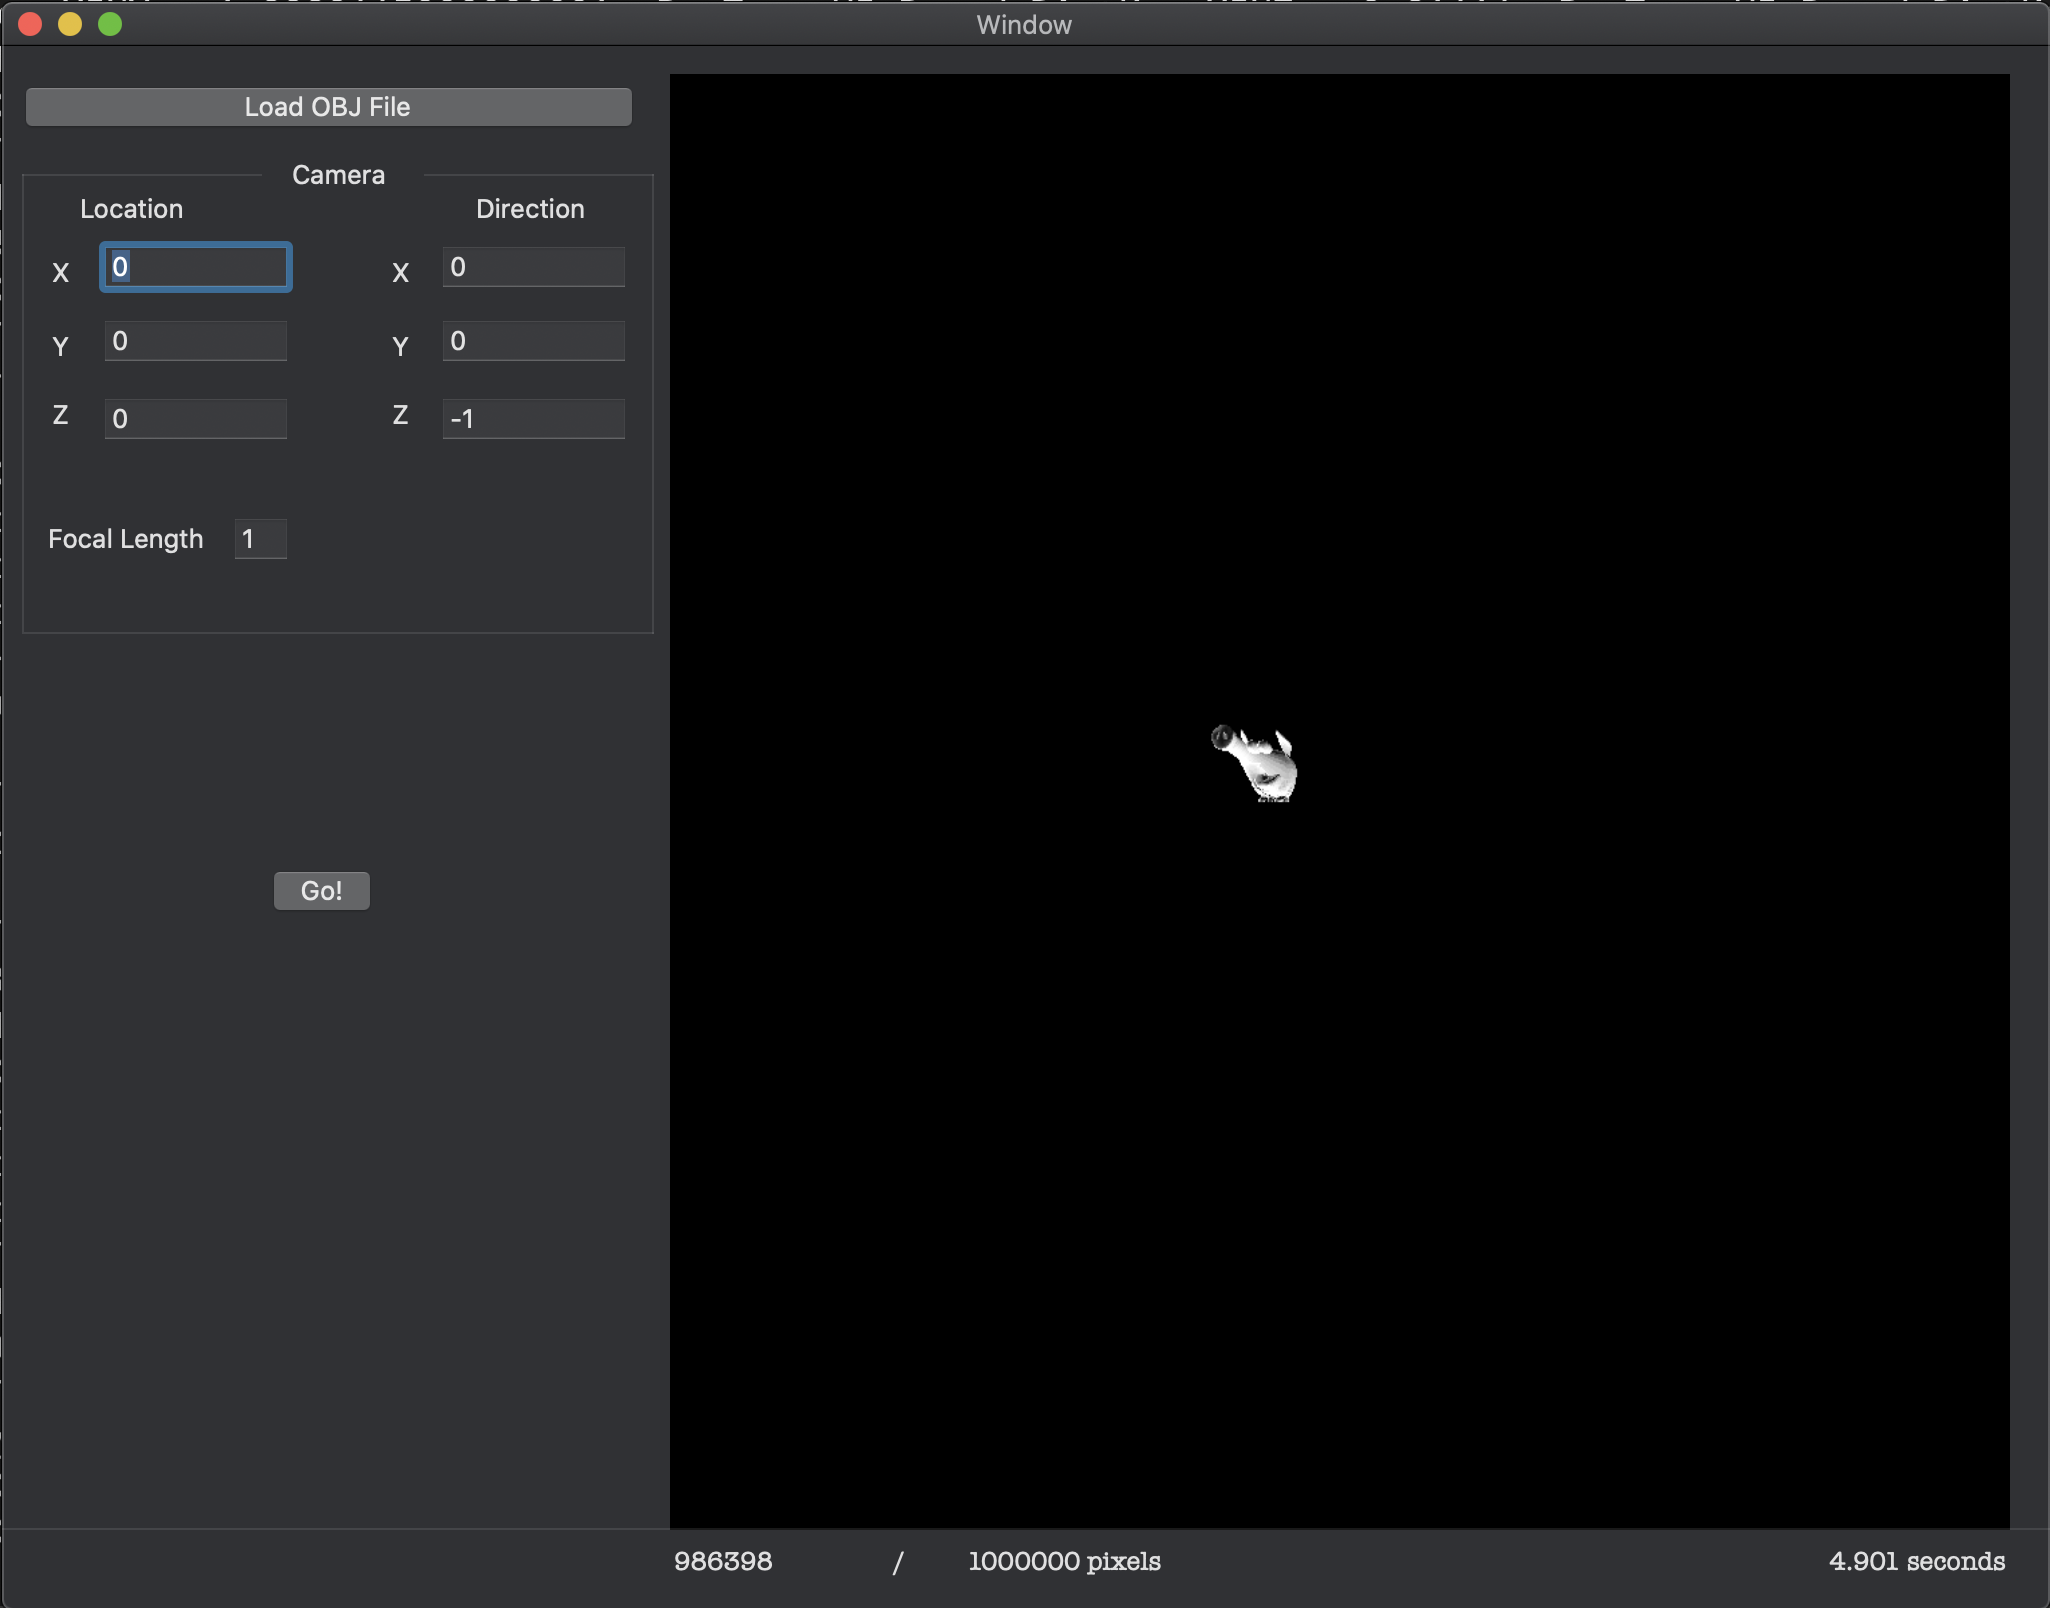
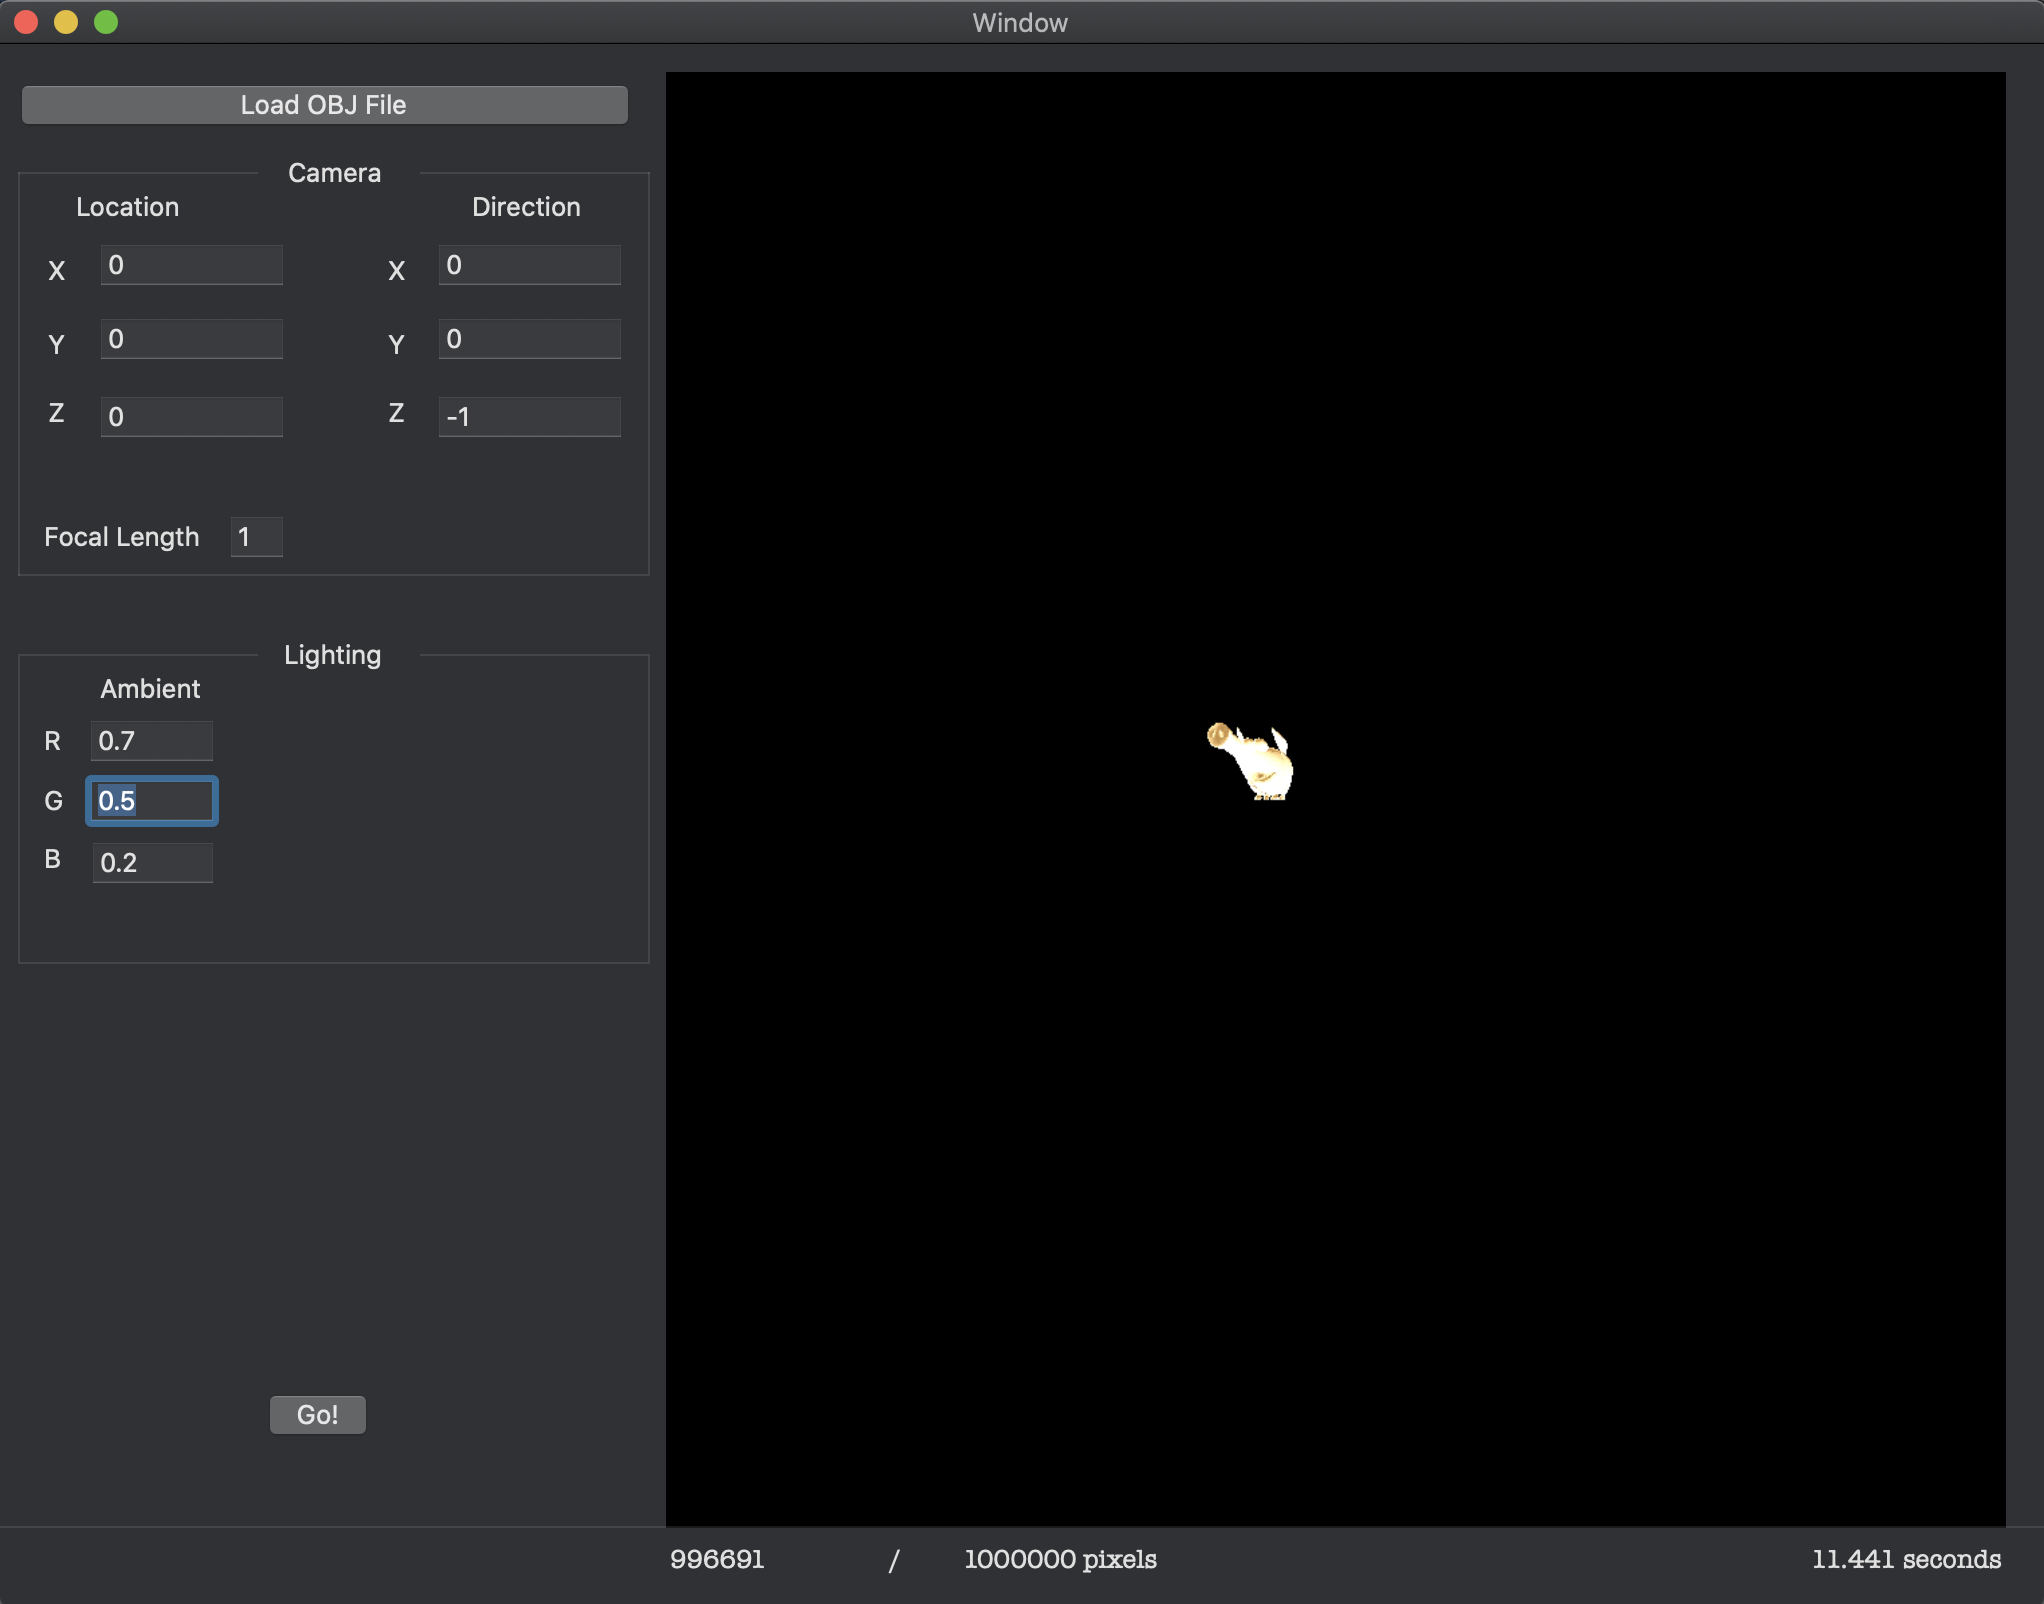
Add back in light sources + update sample image

diff --git a/RayTraceUI/ViewController.swift b/RayTraceUI/ViewController.swift
@@ -130,10 +130,9 @@ class ViewController : NSViewController {
                                                 green: CGFloat(self.ambientLightingG.doubleValue),
                                                 blue: CGFloat(self.ambientLightingB.doubleValue),
                                                 alpha: 1.0),
-                          lights: [],
-//                          PointLight(v3d(-500, -500, 25)),
-//                                   PointLight(v3d(500, -500, 25)),
-//                                   PointLight(v3d(-500, 500, 25))],
+                          lights: [PointLight(v3d(-500, -500, 25)),
+                                   PointLight(v3d(500, -500, 25)),
+                                   PointLight(v3d(-500, 500, 25))],
                           objects: self.t, //[Sphere(v3d(0, 0, 0), 50)],
 //                 Sphere(v3d(0, 1000, 0), 500)],
 /*                [Triangle([v3d(-500, -500, 0), v3d(500, -500, 0), v3d(-500, 500, 0)]),

diff --git a/RayTraceUI/RayTracingFunctions.swift b/RayTraceUI/RayTracingFunctions.swift
@@ -259,8 +259,7 @@ func calculateLighting(atIntersection isect : Intersection,
             continue
         }
 
-        //
-        intensityMultiplier = intensityMultiplier + (light.k_d * intensityMultiplier)
+        intensityMultiplier = (normalLightVectorDp * light.k_d) + intensityMultiplier
 
     }
     return intensityMultiplier

diff --git a/RayTraceUI/Renderables.swift b/RayTraceUI/Renderables.swift
@@ -49,7 +49,7 @@ extension RayIntersectable {
     }
     var k_d : Double { // diffuse reflection constant
         get {
-            return 0.0
+            return 1.0
         }
     }
     var k_a : Double { // ambient reflection constant
